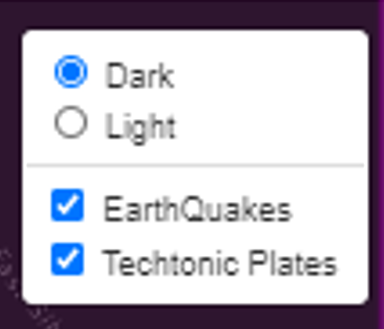
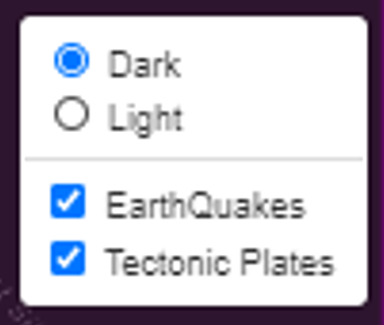
final edits

diff --git a/Leaflet-Step-2/static/js/logic.js b/Leaflet-Step-2/static/js/logic.js
@@ -38,7 +38,7 @@ var myMap = L.map("mapid", {
 // Create overlays object to allow user layer control
 var overlays = {
   "EarthQuakes": layers.earthquakes,
-  "Techtonic Plates": layers.tectonicPlates
+  "Tectonic Plates": layers.tectonicPlates
 };
 
 // Create an overlay controler for the layers, add the overlay controler to the map

diff --git a/Leaflet-Step-1/static/js/logic.js b/Leaflet-Step-1/static/js/logic.js
@@ -28,7 +28,7 @@ baseMap.addTo(myMap);
 // Create overlays object to allow user layer control
 var overlays = {
   "EarthQuakes": layers.earthquakes,
-  "Techtonic Plates": layers.tectonicPlates
+  "Tectonic Plates": layers.tectonicPlates
 };
 
 // Create an overlay controler for the layers, add the overlay controler to the map
